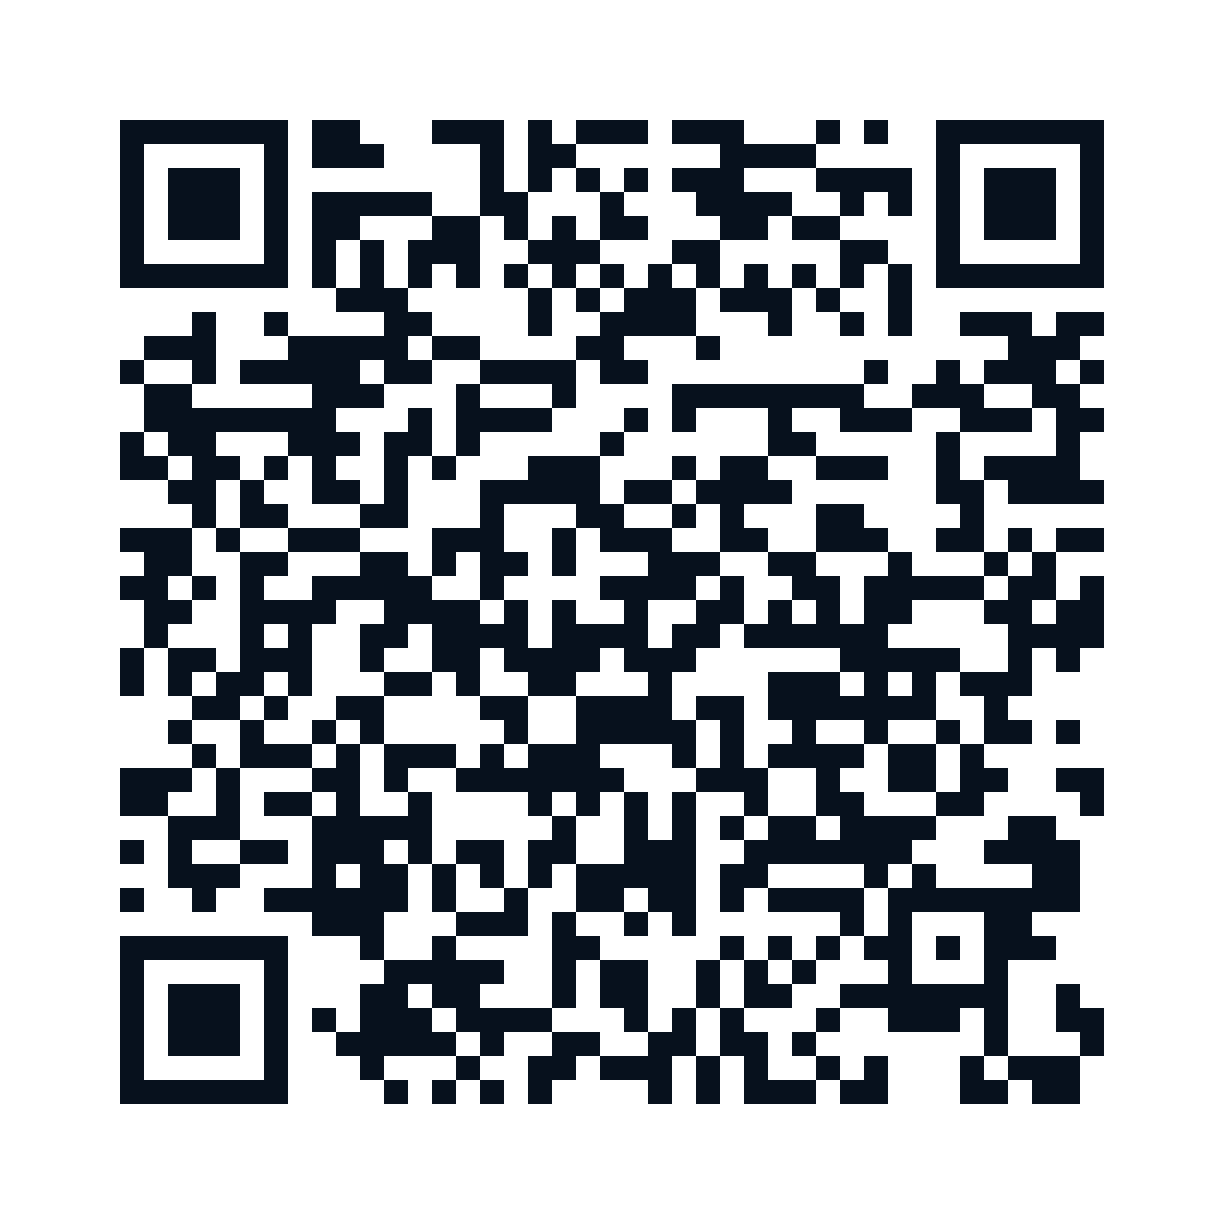
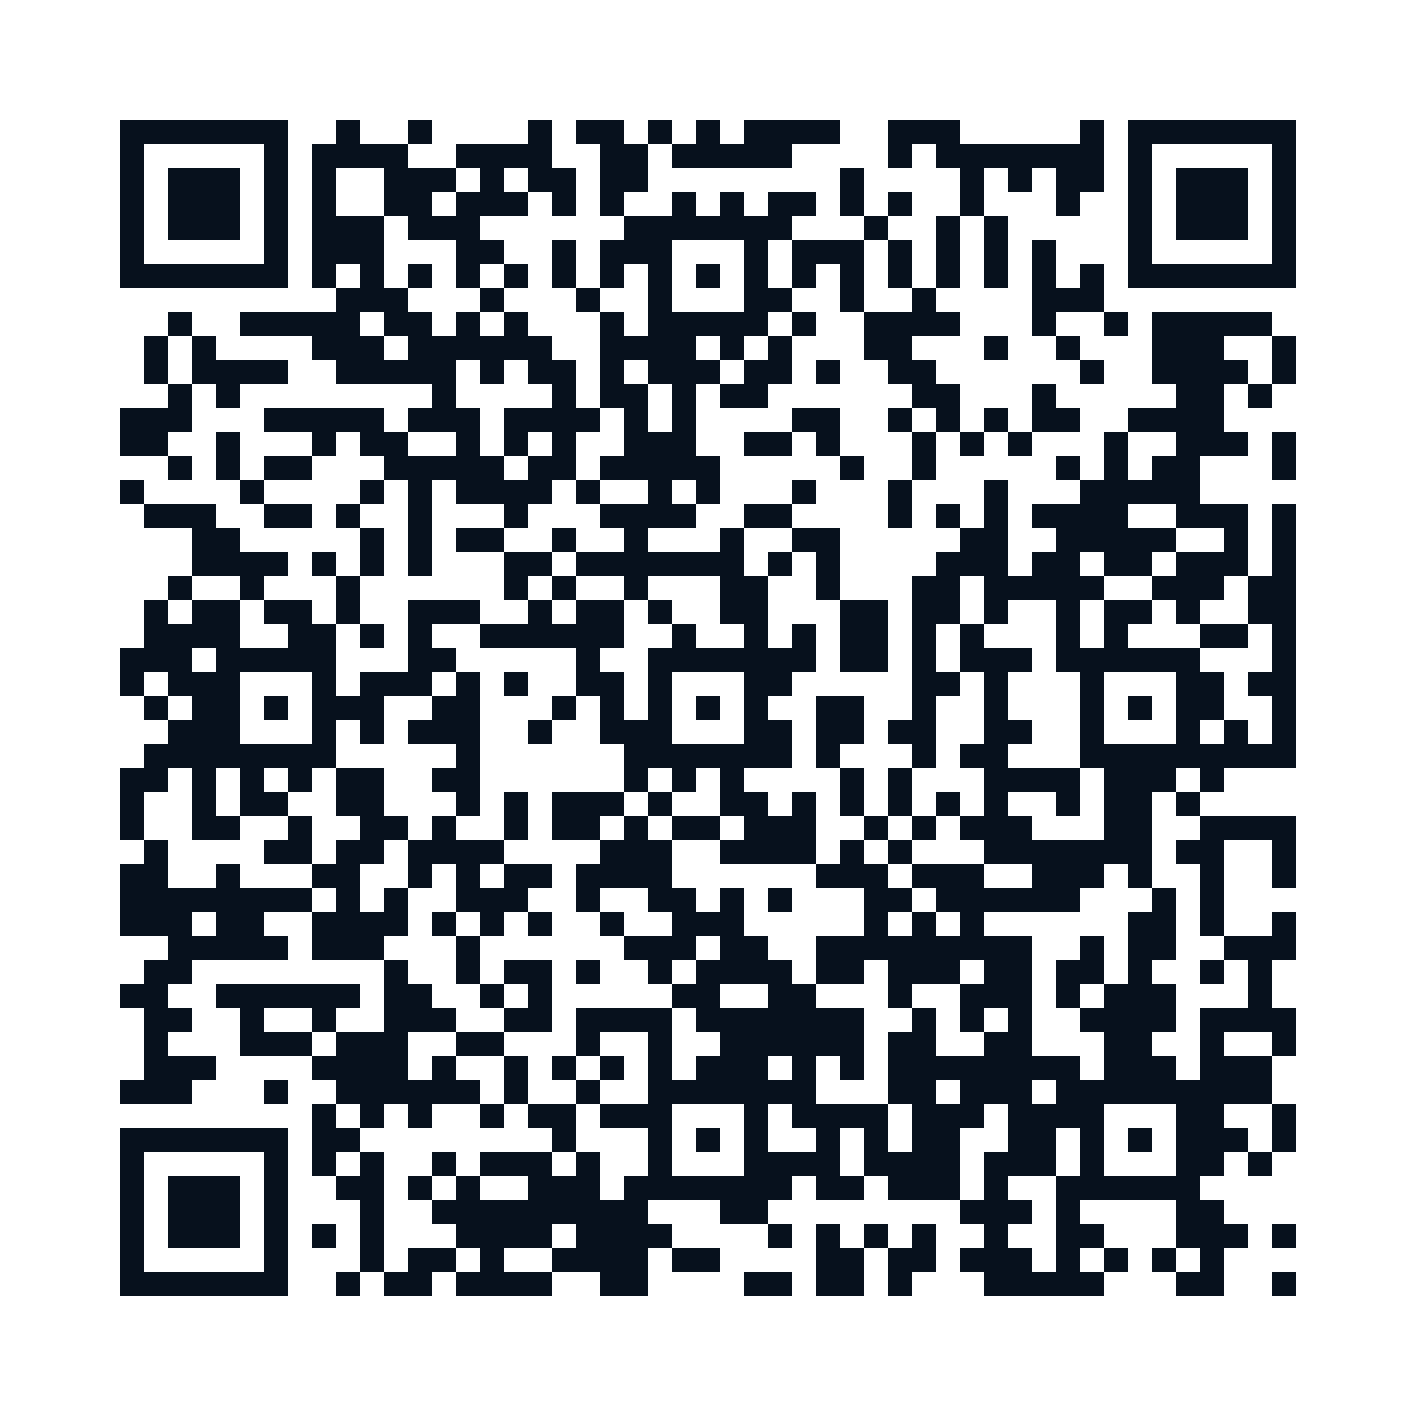
Configure GitHub Pages deployment and live QR URL

diff --git a/generate_qr.py b/generate_qr.py
@@ -11,7 +11,7 @@ from pathlib import Path
 BASE_DIR = Path(__file__).resolve().parent
 OUTPUT_PNG = BASE_DIR / "epq_qr_code.png"
 OUTPUT_SVG = BASE_DIR / "epq_qr_code.svg"
-TARGET_URL = "https://<YOUR-GITHUB-USERNAME>.github.io/<YOUR-REPO-NAME>/"
+TARGET_URL = "https://will-codes-astro.github.io/Galaxy-ngc3198-3d-Interactive-Model/"
 
 
 def load_qr_modules():
@@ -55,7 +55,7 @@ def main() -> None:
     print(f"QR target: {TARGET_URL}")
     print(f"Generated {OUTPUT_PNG.name} ({OUTPUT_PNG.stat().st_size:,} bytes)")
     print(f"Generated {OUTPUT_SVG.name} ({OUTPUT_SVG.stat().st_size:,} bytes)")
-    print("Edit TARGET_URL in generate_qr.py after publishing the dashboard.")
+    print("QR code ready for the configured GitHub Pages deployment.")
 
 
 if __name__ == "__main__":

diff --git a/main.tex b/main.tex
@@ -13,9 +13,9 @@
 \section{Artefact}
 
 The interactive NGC 3198 orbit and rotation-curve dashboard is provided as a
-standalone HTML artefact. The QR code below links to its GitHub Pages address.
-Replace the username and repository placeholders in \texttt{generate\_qr.py}
-with the published GitHub Pages URL before distributing this report.
+standalone HTML artefact and published at
+\href{https://will-codes-astro.github.io/Galaxy-ngc3198-3d-Interactive-Model/}
+{the NGC 3198 interactive dashboard}. The QR code below links to the same page.
 
 \begin{figure}[htbp]
     \centering
